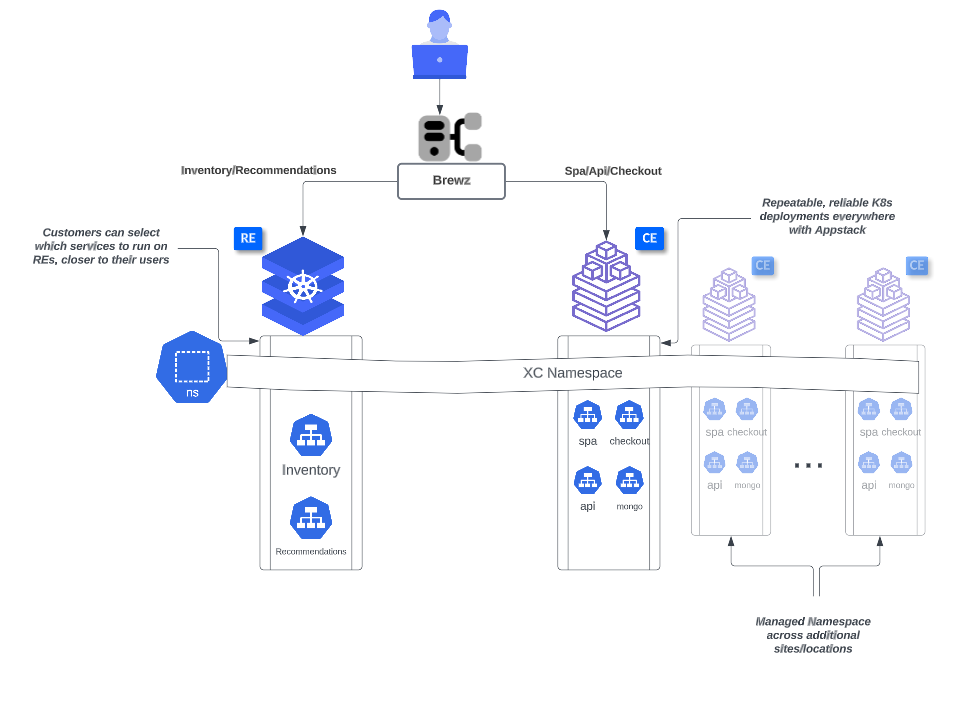
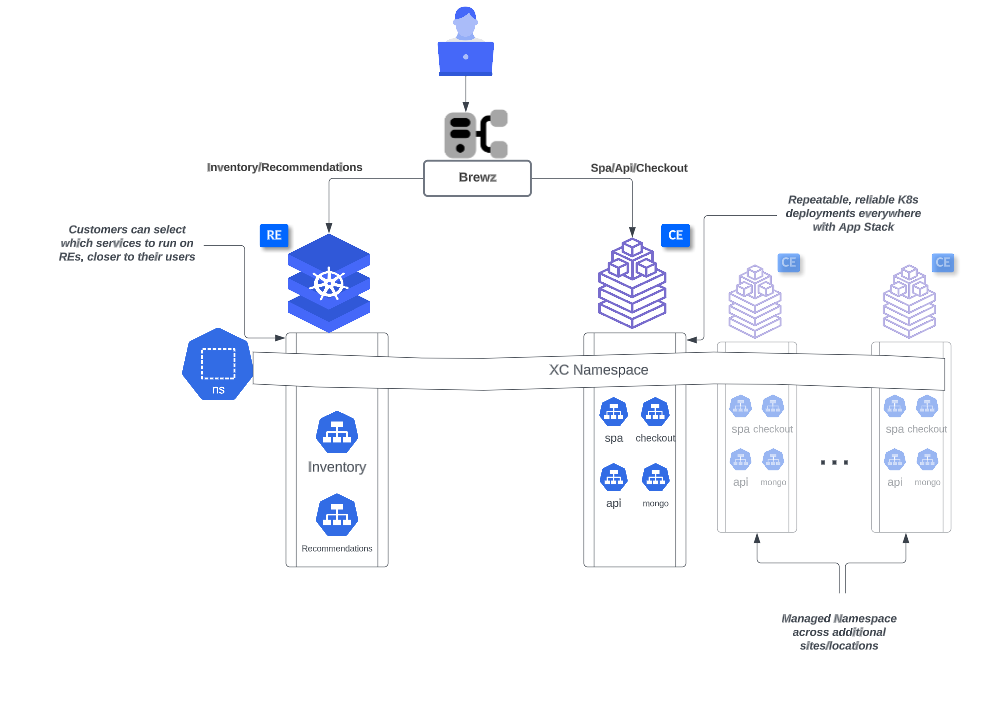
Brewz diagram fix (App Stack)

diff --git a/lab_0.0.md b/lab_0.0.md
@@ -4,7 +4,7 @@ This lab leverages the Terraform Modular Demo Framework, that uses Terragrunt to
 
 ## Use Case:
 
-Brewz is an ecommerce application that provides a retail storefront for customers, to purchase coffee. Of the 6 microservices that make up Brewz, there is a desire to run the *recommendations* and *inventory* services closer to customer locations, while the remaining services should be hosted on a Kubernetes cluster, that can be quickly and easily deployed in multiple locations as demand for coffee grows. F5 Distributed Cloud Regional Edges provide the capability to deploy the 2x services closer to customers, to reduce latency and improve availability, while XC App Stack provides a repeatable K8s platform, that can be platform agnostic, and host microservices, while being managed through the centralized XC Console. The XC security stack is an added bonus to this use case (we will not be covering XC WAAP in this lab).
+Brewz is an ecommerce application that provides a retail storefront for customers, to purchase coffee. Of the 6 microservices that make up Brewz, there is a desire to run the *recommendations* and *inventory* services closer to customer locations, while the remaining services should be hosted on a Kubernetes cluster, that can be quickly and easily deployed in multiple locations as demand for coffee grows. F5 Distributed Cloud Regional Edges provide the capability to deploy the 2x services closer to customers, to reduce latency and improve availability, while XC App Stack with Managed K8s provides a repeatable K8s platform, that can be platform agnostic, and host microservices, while being managed through the centralized XC Console. The XC security stack is an added bonus to this use case (we will not be covering XC WAAP in this lab).
 
 ## What components do we need to achieve this?
 
